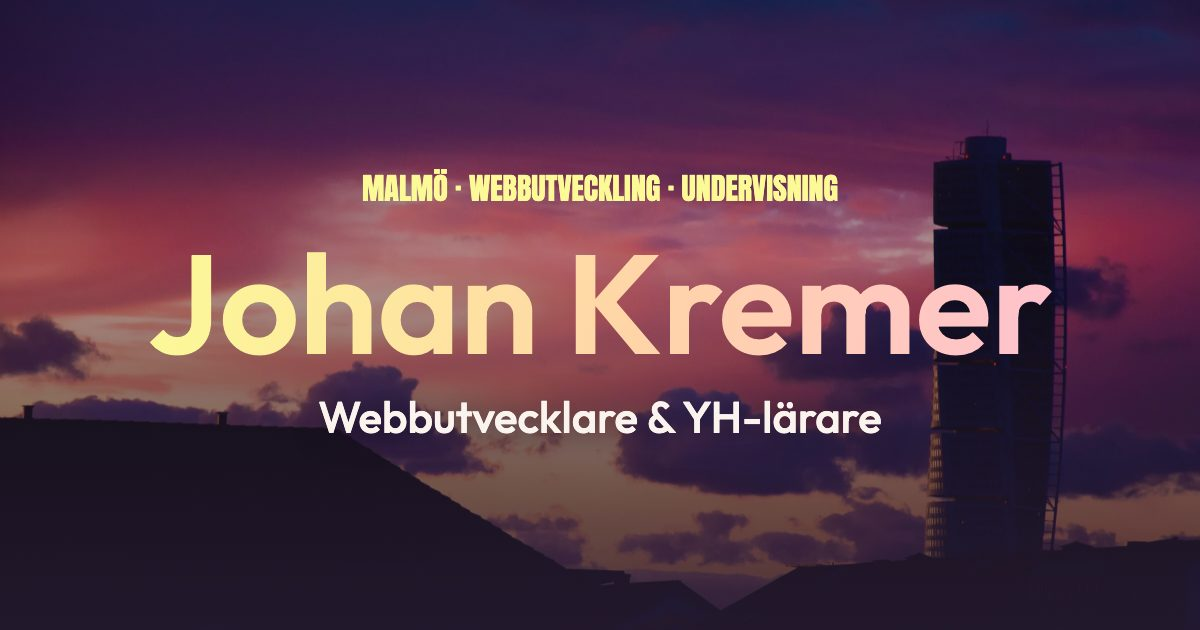
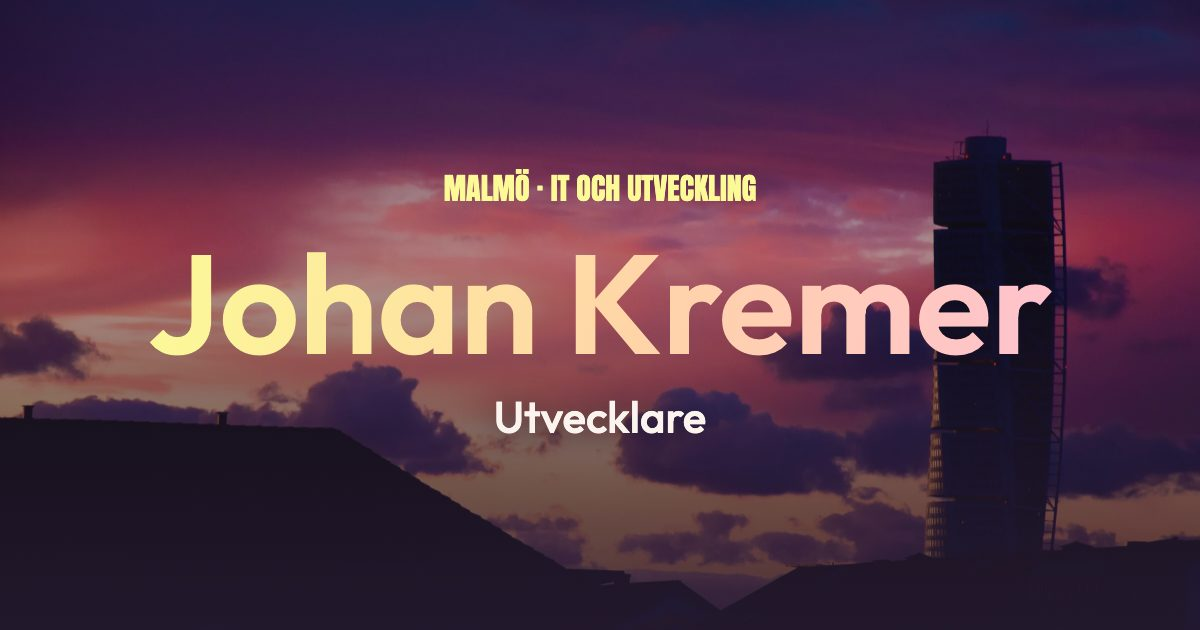
Bredare hero-text: Bygger lösningar. Lär ut dem.
- Hero: Bygger lösningar. Lär ut dem., kicker Malmö · Utveckling och en
  ingress som nämner gränssnitt, backend och databaser
- Titel och metabeskrivning: Utvecklare i stället för Webbutvecklare &
  YH-lärare, och ny delningsbild

Changed region(s): [[0.2467, 0.6333, 0.74, 0.6937], [0.2775, 0.2714, 0.7092, 0.3317]]

diff --git a/src/content.ts b/src/content.ts
@@ -5,13 +5,13 @@ export const site = {
   // TODO: byt till din egen domän om du skaffar en (påverkar og:url, canonical och sitemap)
   url: 'https://portfolio-johan-kremer.vercel.app',
   name: 'Johan Kremer',
-  role: 'Webbutvecklare & YH-lärare',
+  role: 'Utvecklare',
   location: 'Malmö',
   email: 'johan.h.kremer@gmail.com',
   github: 'https://github.com/johanhkremer',
   linkedin: 'https://www.linkedin.com/in/johan-kremer',
   description:
-    'Johan Kremer – webbutvecklare och YH-lärare i Malmö. Bygger tillgängliga webbplatser med React och TypeScript och är van vid att arbeta med AI.',
+    'Johan Kremer – utvecklare i Malmö. Arbetar med gränssnitt, backend och databaser, och är van vid att arbeta med AI.',
 }
 
 export const credits = {
@@ -25,9 +25,9 @@ export const credits = {
 }
 
 export const hero = {
-  kicker: 'Malmö · Webbutveckling',
-  lines: ['Johan', 'Kremer', 'Webbutvecklare.'],
-  lead: 'Jag bygger webbplatser med React och TypeScript. Jag undervisar också i webbutveckling på yrkeshögskola.',
+  kicker: 'Malmö · Utveckling',
+  lines: ['Bygger', 'lösningar.', 'Lär ut dem.'],
+  lead: 'Jag arbetar med utveckling, från gränssnitt till backend och databaser. Jag har också erfarenhet av att undervisa.',
 }
 
 export const maf = {
